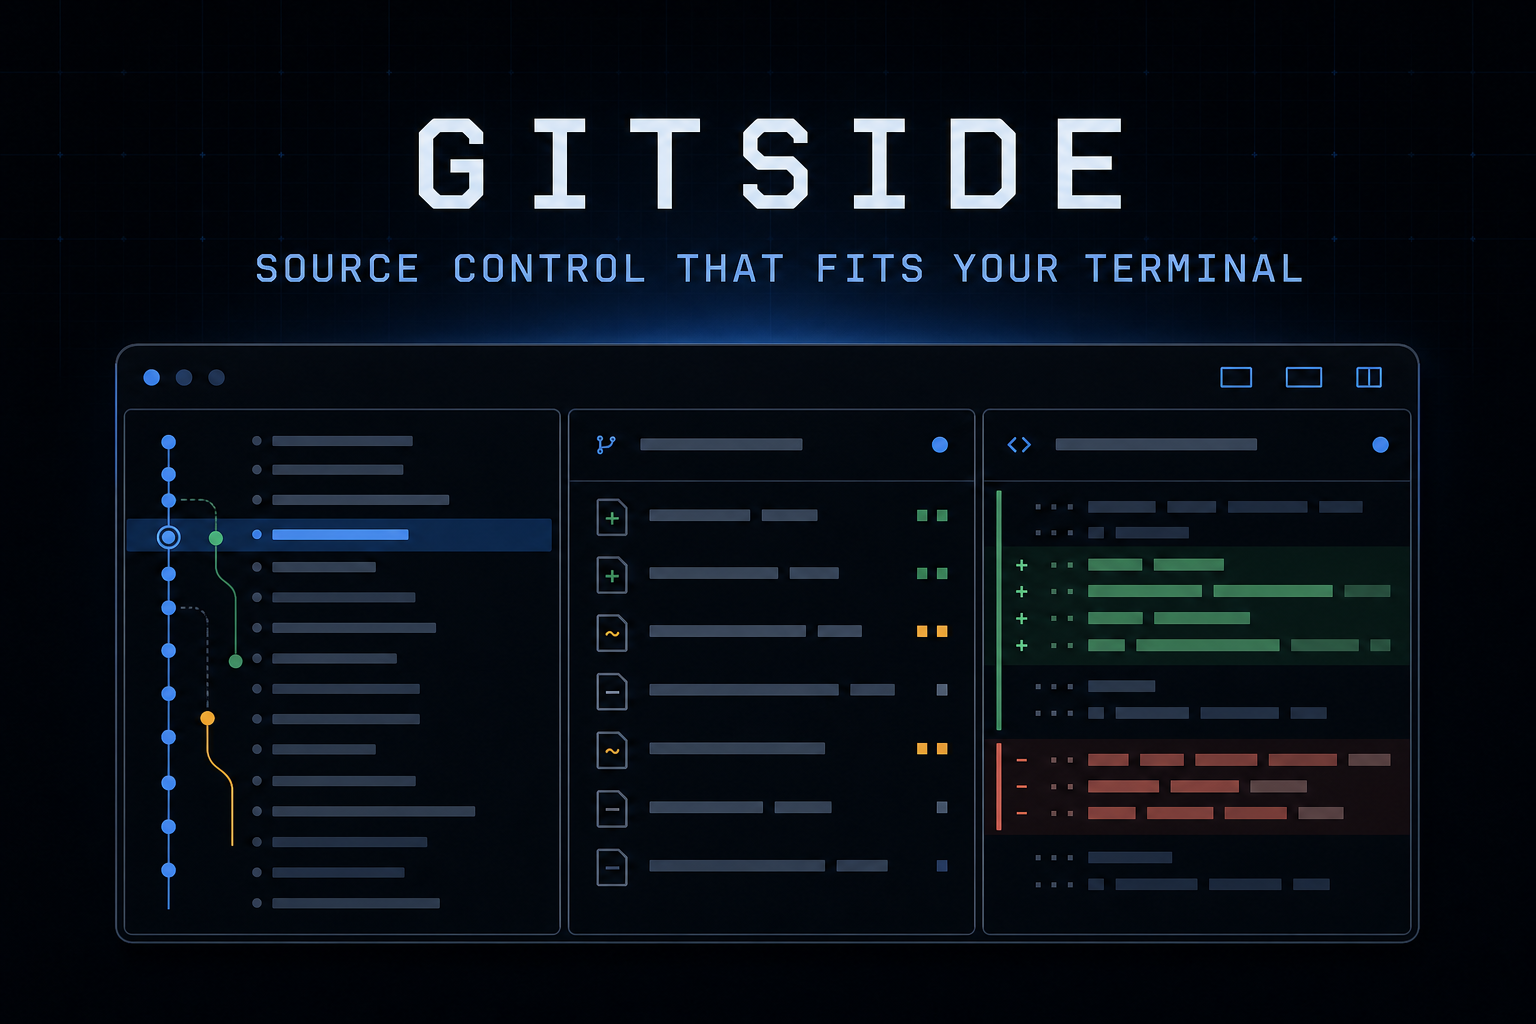
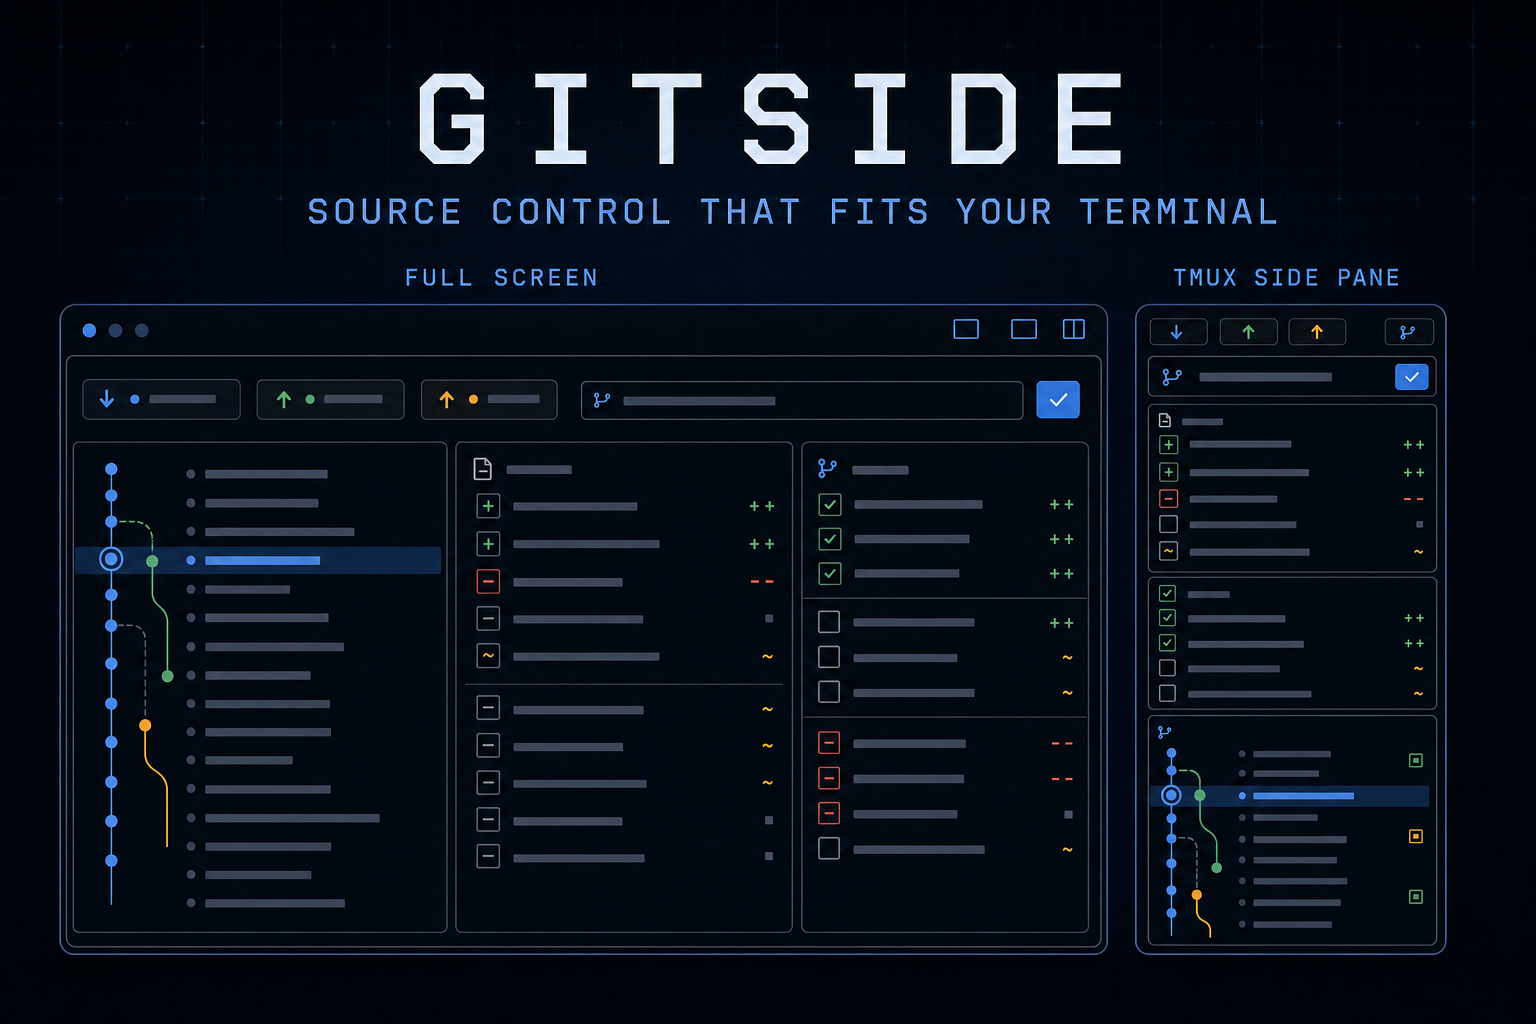
Showcase responsive layouts and add donations

Changed region(s): [[0.0312, 0.25, 0.9375, 0.9375], [0.1875, 0.0625, 0.8438, 0.2188]]

diff --git a/site/styles.css b/site/styles.css
@@ -53,8 +53,9 @@ h1 em { color: var(--blue); font-style: normal; }
 .feature-grid { display:grid;grid-template-columns:repeat(3,1fr);border-top:1px solid var(--line);border-left:1px solid var(--line);margin-bottom:130px}.feature-grid article{min-height:270px;padding:30px;border-right:1px solid var(--line);border-bottom:1px solid var(--line);background:linear-gradient(145deg,rgba(255,255,255,.015),transparent)}.feature-number{color:#5e6877;font: .75rem var(--mono)}.feature-grid h3{font-size:1.25rem;margin:65px 0 10px}.feature-grid p{color:var(--muted);font-size:.95rem}
 .install { display:grid;grid-template-columns:.85fr 1.15fr;gap:8%;align-items:center;padding:100px 0 130px;border-top:1px solid var(--line)}.install>div>p:not(.kicker){color:var(--muted);margin-top:20px}.install-card,.code-block{position:relative;background:#0d1118;border:1px solid #303846;box-shadow:0 25px 70px rgba(0,0,0,.35)}.install-card-top{display:flex;justify-content:space-between;padding:12px 15px;border-bottom:1px solid #252d39;color:var(--muted);font:.72rem var(--mono)}.copy{background:transparent;border:0;color:var(--blue);cursor:pointer}.install-card pre,.code-block pre{margin:0;padding:26px;overflow:auto;color:#dce3ed;font:clamp(.7rem,1.4vw,.9rem)/1.85 var(--mono)}pre span{color:var(--blue)}
 .final-cta { padding:120px 0;text-align:center;border-top:1px solid var(--line)}.final-cta h2{font-size:clamp(3rem,7vw,6.6rem)}
+.support-card{max-width:820px;margin:55px auto 0;padding:18px 20px;display:grid;grid-template-columns:1fr auto auto;gap:18px;align-items:center;border:1px solid var(--line);background:var(--surface);text-align:left}.support-card div{display:flex;flex-direction:column}.support-card div span{font-weight:700}.support-card small{color:var(--muted)}.support-card code{font:clamp(.62rem,1.15vw,.78rem) var(--mono);color:var(--cyan);overflow-wrap:anywhere}.support-card .copy{border:1px solid #344052;padding:.45rem .7rem}.docs-support{margin:25px 0;grid-template-columns:1fr auto}.docs-support code{font-size:.78rem}
 footer { min-height:110px;border-top:1px solid var(--line);display:flex;align-items:center;justify-content:space-between;color:var(--muted);font-size:.82rem}footer p{margin:0}footer div{display:flex;gap:1.4rem}
 .docs-layout{display:grid;grid-template-columns:220px minmax(0,760px);gap:80px;padding:70px 0 120px}.docs-layout aside{position:sticky;top:25px;height:max-content;display:flex;flex-direction:column;gap:.65rem;color:var(--muted);font-size:.88rem}.docs-layout aside strong{color:var(--text);margin-bottom:.5rem}.docs-layout aside a:hover{color:var(--blue)}.docs-content section{scroll-margin-top:25px;padding:0 0 70px;margin-bottom:70px;border-bottom:1px solid var(--line)}.docs-content h1{font-size:clamp(3rem,7vw,5.5rem);text-align:left;margin:16px 0 24px}.docs-content h2{font-size:2rem;letter-spacing:-.04em}.docs-content h3{margin-top:2rem}.docs-content p{color:#adb6c4}.docs-content .lead{font-size:1.18rem}.docs-content a{color:var(--blue);text-decoration:underline;text-underline-offset:3px}.docs-content code:not(pre code),kbd{font: .82em var(--mono);background:var(--surface-2);border:1px solid #303846;padding:.14em .38em;color:#dfe8f5}.code-block{margin:25px 0}.code-block .copy{position:absolute;right:12px;top:10px}.docs-table{display:grid;grid-template-columns:1fr 1fr;border-top:1px solid var(--line);border-left:1px solid var(--line);margin:25px 0}.docs-table div{display:grid;grid-template-columns:130px 1fr;gap:10px;padding:14px;border-right:1px solid var(--line);border-bottom:1px solid var(--line);color:var(--muted)}
 @media(max-width:800px){.section-shell,.site-header,footer{width:min(100% - 28px,1180px)}nav{gap:1rem}nav a:not(.nav-cta){display:none}.hero{padding-top:75px}.terminal-wrap{margin-top:55px}.terminal-top>span{display:none}.terminal-grid{grid-template:90px minmax(185px,1fr)/1fr 1fr}.feature-intro,.install{grid-template-columns:1fr;gap:35px}.feature-grid{grid-template-columns:1fr 1fr}.feature-grid article{min-height:230px}.docs-layout{grid-template-columns:1fr;padding-top:35px}.docs-layout aside{position:static;display:grid;grid-template-columns:repeat(2,1fr);border-bottom:1px solid var(--line);padding-bottom:30px}.docs-layout aside strong{grid-column:1/-1}.docs-table{grid-template-columns:1fr}footer p{display:none}}
-@media(max-width:540px){.hero{padding-top:60px}h1{font-size:3.25rem}.hero-copy br{display:none}.terminal-app{padding-inline:10px}.terminal-top div{gap:3px}.terminal-top b{font-size:.55rem;padding:2px 3px}.terminal-grid{grid-template:84px 150px 150px/1fr}.commit-panel{grid-column:auto}.changes-panel,.graph-panel{min-height:0}.terminal-status span:last-child{display:none}.proof-strip{display:grid;grid-template-columns:1fr 1fr;padding:22px 28px;gap:12px}.feature-grid{grid-template-columns:1fr}.feature-grid article{min-height:210px}.feature-grid h3{margin-top:40px}.install{padding-block:80px}.install-card pre{padding:18px;font-size:.64rem}.final-cta{padding-block:90px}footer{min-height:150px;align-items:flex-start;padding-block:35px;flex-direction:column}.docs-content h1{font-size:3rem}.docs-table div{grid-template-columns:110px 1fr}}
+@media(max-width:540px){.hero{padding-top:60px}h1{font-size:3.25rem}.hero-copy br{display:none}.terminal-app{padding-inline:10px}.terminal-top div{gap:3px}.terminal-top b{font-size:.55rem;padding:2px 3px}.terminal-grid{grid-template:84px 150px 150px/1fr}.commit-panel{grid-column:auto}.changes-panel,.graph-panel{min-height:0}.terminal-status span:last-child{display:none}.proof-strip{display:grid;grid-template-columns:1fr 1fr;padding:22px 28px;gap:12px}.feature-grid{grid-template-columns:1fr}.feature-grid article{min-height:210px}.feature-grid h3{margin-top:40px}.install{padding-block:80px}.install-card pre{padding:18px;font-size:.64rem}.final-cta{padding-block:90px}.support-card,.docs-support{grid-template-columns:1fr;text-align:center}.support-card div{align-items:center}.support-card .copy{justify-self:center}footer{min-height:150px;align-items:flex-start;padding-block:35px;flex-direction:column}.docs-content h1{font-size:3rem}.docs-table div{grid-template-columns:110px 1fr}}
 @media(prefers-reduced-motion:reduce){html{scroll-behavior:auto}.button{transition:none}}

diff --git a/site/docs/index.html b/site/docs/index.html
@@ -15,7 +15,7 @@
     <div class="docs-layout section-shell">
       <aside aria-label="Documentation navigation">
         <strong>Documentation</strong>
-        <a href="#overview">Overview</a><a href="#install">Installation</a><a href="#start">First run</a><a href="#controls">Controls</a><a href="#github">GitHub</a><a href="#configuration">Configuration</a><a href="#tmux">tmux &amp; mouse</a><a href="#troubleshooting">Troubleshooting</a>
+        <a href="#overview">Overview</a><a href="#install">Installation</a><a href="#start">First run</a><a href="#controls">Controls</a><a href="#github">GitHub</a><a href="#configuration">Configuration</a><a href="#tmux">tmux &amp; mouse</a><a href="#troubleshooting">Troubleshooting</a><a href="#support">Support</a>
       </aside>
       <main id="docs-main" class="docs-content">
         <section id="overview"><p class="kicker">Documentation</p><h1>Use Git at terminal speed.</h1><p class="lead">Gitside is a source-control panel over your installed Git and GitHub CLI. It keeps credentials, editor configuration, signing, hooks, and transport where they already belong.</p></section>
@@ -34,6 +34,7 @@ graph_page_size = 200
 confirm_destructive = true</code></pre></div><p>Layouts can be <code>auto</code>, <code>compact</code>, or <code>wide</code>. See the <a href="https://github.com/dev-bhaskar8/gitside/blob/main/docs/configuration.md">configuration reference</a>.</p></section>
         <section id="tmux"><h2>tmux and mouse</h2><p>Gitside works keyboard-only. To pass mouse events through tmux, add this to <code>~/.tmux.conf</code>:</p><div class="code-block"><button class="copy" data-copy="set -g mouse on">Copy</button><pre><code>set -g mouse on</code></pre></div><p>Ghostty, Windows Terminal, and terminals supporting SGR mouse events can click toolbar controls, panels, files, commits, and dialogs.</p></section>
         <section id="troubleshooting"><h2>Troubleshooting</h2><h3>GitHub says the CLI is unavailable</h3><p>Verify <code>gh --version</code> and <code>gh auth status</code> in the same terminal environment, then press <kbd>r</kbd> or enter the GitHub panel.</p><h3>Mouse clicks do not work in tmux</h3><p>Enable tmux mouse mode and ensure Gitside has not been started with mouse support disabled.</p><h3>Colors are difficult to read</h3><p>Gitside inherits the terminal background. Check the terminal profile's ANSI blue, yellow, red, and green colors for sufficient contrast.</p><p>More cases are covered in the <a href="https://github.com/dev-bhaskar8/gitside/blob/main/docs/troubleshooting.md">troubleshooting guide</a>.</p></section>
+        <section id="support"><h2>Support Gitside</h2><p>Gitside is free and open source. If it saves you time, you can optionally support continued development using this EVM wallet address.</p><div class="support-card docs-support"><code>0xC87efC9c71C422779F7dbeF14B2Fc4eef94b84fF</code><button class="copy" data-copy="0xC87efC9c71C422779F7dbeF14B2Fc4eef94b84fF" aria-label="Copy EVM donation address">Copy</button></div><p>Verify network and asset compatibility before sending. Cryptocurrency transfers are irreversible. Donations do not provide product features, support guarantees, governance rights, or investment value.</p></section>
       </main>
     </div>
     <footer><a class="brand" href="../"><span class="brand-mark">⌁</span> gitside</a><p>Terminal-native source control. MIT licensed.</p><div><a href="./">Docs</a><a href="https://github.com/dev-bhaskar8/gitside">GitHub</a></div></footer>

diff --git a/site/index.html b/site/index.html
@@ -83,6 +83,11 @@
         <p class="kicker">Open source · MIT</p>
         <h2>Keep your code<br />and your Git side by side.</h2>
         <div class="hero-actions"><a class="button primary" href="https://github.com/dev-bhaskar8/gitside">View on GitHub</a><a class="button secondary" href="docs/">Explore documentation</a></div>
+        <div class="support-card">
+          <div><span>Support development</span><small>Optional EVM donation address · verify your network before sending</small></div>
+          <code>0xC87efC9c71C422779F7dbeF14B2Fc4eef94b84fF</code>
+          <button class="copy" data-copy="0xC87efC9c71C422779F7dbeF14B2Fc4eef94b84fF" aria-label="Copy EVM donation address">Copy</button>
+        </div>
       </section>
     </main>
 

diff --git a/docs/support.md b/docs/support.md
@@ -1,0 +1,19 @@
+# Support Gitside
+
+Gitside is free and open source under the MIT License. If it improves your Git
+workflow, you can optionally support continued development using this EVM
+wallet address:
+
+```text
+0xC87efC9c71C422779F7dbeF14B2Fc4eef94b84fF
+```
+
+## Before sending
+
+- Copy the address exactly and verify it in your wallet.
+- Confirm that the selected network and asset are compatible with an EVM address.
+- Send a small test transaction first when appropriate.
+- Cryptocurrency transfers are irreversible.
+
+Donations are optional and do not provide additional product features,
+support guarantees, governance rights, or investment value.

diff --git a/README.md b/README.md
@@ -82,6 +82,18 @@ or pushes a remote repository automatically.
 - [Troubleshooting](docs/troubleshooting.md)
 - [Architecture](docs/architecture.md)
 
+## Support Gitside
+
+If Gitside saves you time, you can support its development using this EVM
+wallet address:
+
+```text
+0xC87efC9c71C422779F7dbeF14B2Fc4eef94b84fF
+```
+
+Verify that your chosen network and asset are compatible before sending.
+Cryptocurrency transfers cannot be reversed. See [support details](docs/support.md).
+
 ## Development
 
 ```sh
